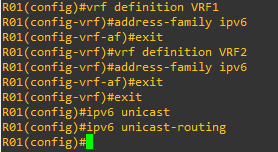
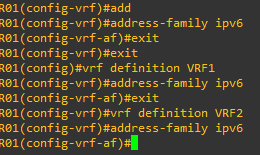
Alterado o arquivo readme.md

diff --git a/CCNP 350-401 ENCOR/02 - Virtualization/15 - Exemplo Pratico VRF LITE 04 - IPV6  (02)/README.md b/CCNP 350-401 ENCOR/02 - Virtualization/15 - Exemplo Pratico VRF LITE 04 - IPV6  (02)/README.md
@@ -6,10 +6,17 @@ Agora vou utilizar o mesmo cenário do exemplo anterior porém estou realizando 
 
 Se pararmos para analisar, agora vamos manter as duas VRFs, VRF1 e VRF2 que utilizamos até aqui porém só teremos uma interface de saída em cada roteador. Então como faremos para interligar as dois roteadores para que os mesmos possam permitir o tráfego das duas VRFs ? <br></br>
 
+Bom vamos começar configurando as VRFs, as interfaces de Loopback e as interfaces que não se ligam aos roteadores. <br></br>
+**OBS:** não se esquece que sempre que for utilizar o IPv6, você deverá ativar o roteamento IPv6 em modo global com o comando: **ipv6 unicast-routing**
+
 <table>
       <tr>
+          <td width="50%">ROTEADOR R01</td>
+          <td width="50%">ROTEADOR R01</td>
+      </tr>
+      <tr>
           <td width="50%"><img src="Imagens/R01/01.png"></img></td>
-          <td width="50%"><img src="Imagens/R02/01.png"></img></td>
+          <td width="50%"><img src="Imagens/R01/02.png"></img></td>
       </tr>
 </table>
 
